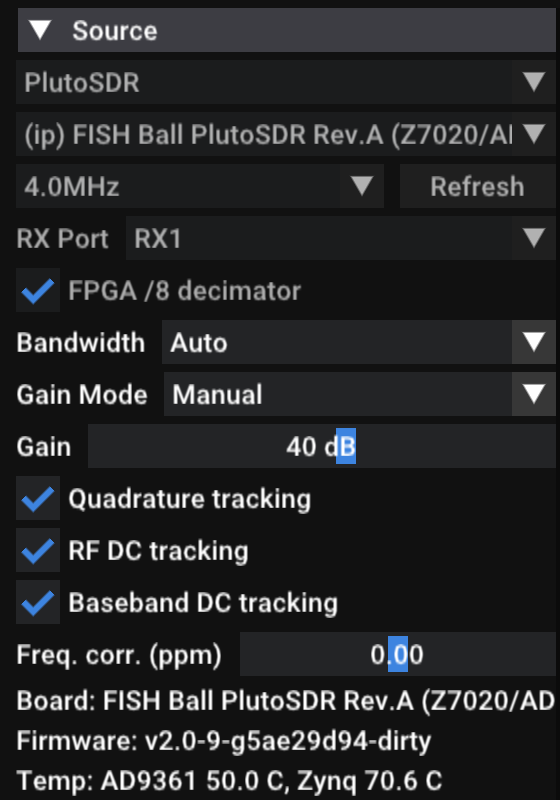
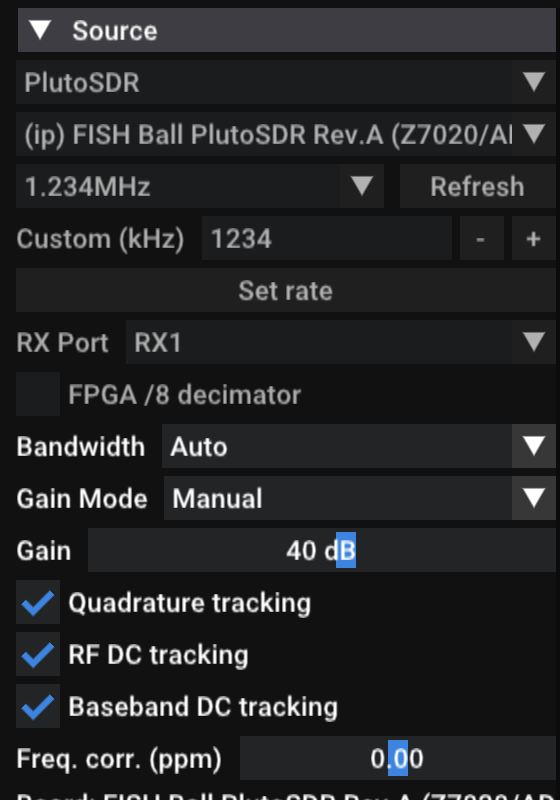
SDR++: the common SDR rates, a custom rate, and the 1 Hz the AD9361 rounds
The PlutoSDR source's rate list had 500 kHz steps without the FPGA /8 and
15 fixed rates with it. Now:
- the list adds the rates other SDR tools default to (2.048, 2.304, 2.4,
  2.88, 3.072, 3.2, 3.84, 4.8, 5.76, 6.144, 7.68, 15.36, 30.72, 61.44 MHz;
  with /8 also 256, 384, 512 kHz), labelled exactly ("2.048MHz"), since the
  one-decimal labels made 2.048 and 2.0 MHz the same name;
- a Custom (kHz) field with Set rate takes any rate in range (521 kHz to
  61.44 MHz; 261 kHz to 7.68 MHz with /8), refuses others with a message
  naming the range, and is saved: a saved rate not in the list stays
  selected after a restart.

Found while checking it on the board: the AD9361 rounds some rates by 1 Hz
(2.048 MHz x 8 became 16383999), the module then asked the FPGA for exactly
2048000, which it does not offer, and refused to stream, saying the FPGA had
no /8 decimator. The FPGA rate is now an eighth of the rate the chip actually
took, compared with 1 Hz of tolerance. Checked with /8 at 2.048, 2.304,
3.072, 6.144 and 7.68 MHz (three of them rounded), all engaged; a typed
1.234 MHz landed exactly and survived a restart. Package release 5.

diff --git a/tools/sdrpp/README.md b/tools/sdrpp/README.md
@@ -4,6 +4,8 @@
 nothing of this board's FPGA. This directory builds SDR++ as an Arch package
 with a patch that adds, to that source:
 
+- **More sample rates**: the common SDR rates in the list (2.048, 2.304, 3.072,
+  6.144 MHz …), and a **Custom (kHz)** field for any rate the hardware takes.
 - **RX Port**: RX1 or RX2, one at a time.
 - **FPGA /8 decimator**: rates from 250 kS/s to 7.68 MS/s, filtered in the FPGA,
   so the link carries an eighth of what the AD9361 samples.
@@ -21,7 +23,7 @@ How to use them, with screenshots and measured settings:
 
 ```bash
 # run from: tools/sdrpp/
-makepkg -f                                   # builds sdrpp-git-…-4-x86_64.pkg.tar.zst
+makepkg -f                                   # builds sdrpp-git-…-5-x86_64.pkg.tar.zst
 sudo pacman -U sdrpp-git-*-x86_64.pkg.tar.zst
 ```
 
@@ -33,6 +35,7 @@ the middle of its log.
 
 | control | writes |
 |---|---|
+| sample rate, Custom (kHz) | the `ad9361-phy` rate; with /8 the FPGA rate is an eighth of the rate the chip actually took (it rounds some by 1 Hz, e.g. 16383999) |
 | RX Port | gain and gain mode on `ad9361-phy` `voltage0` (RX1) or `voltage1` (RX2); samples from `cf-ad9361-lpc` `voltage0/1` or `voltage2/3` |
 | FPGA /8 decimator | `ad9361-phy` rate = 8 × the chosen rate; `cf-ad9361-lpc` `voltage0` `sampling_frequency` = an eighth of it, read back. Bypassed again when streaming stops |
 | IQ / RF DC / baseband DC correction | `quadrature_tracking_en`, `rf_dc_offset_tracking_en`, `bb_dc_offset_tracking_en` |

diff --git a/docs/sdrpp.md b/docs/sdrpp.md
@@ -72,6 +72,7 @@ them to the same source panel:
 
 | control | what it does | when to change it |
 |---|---|---|
+| **Sample rate list** and **Custom (kHz)** | the 500 kHz steps plus the rates other SDR tools default to (2.048, 2.304, 2.4, 3.072, 3.84, 4.8, 6.144 MHz …); or type any rate and press **Set rate**: 521 kHz to 61.44 MHz, or 261 kHz to 7.68 MHz with the /8. A typed rate is saved | a rate the list lacks |
 | **RX Port** | RX1 or RX2, one at a time | the antenna is on RX2 |
 | **FPGA /8 decimator** | the AD9361 samples at 8× the rate you pick and the FPGA filters and keeps one sample in eight, so rates of 250 kHz to 7.68 MHz reach SDR++ with an eighth of the data | listening to one station, or any rate below 2 MHz |
 | **Quadrature tracking** | the AD9361 keeps I and Q balanced, which suppresses the mirror image of each signal | leave on |
